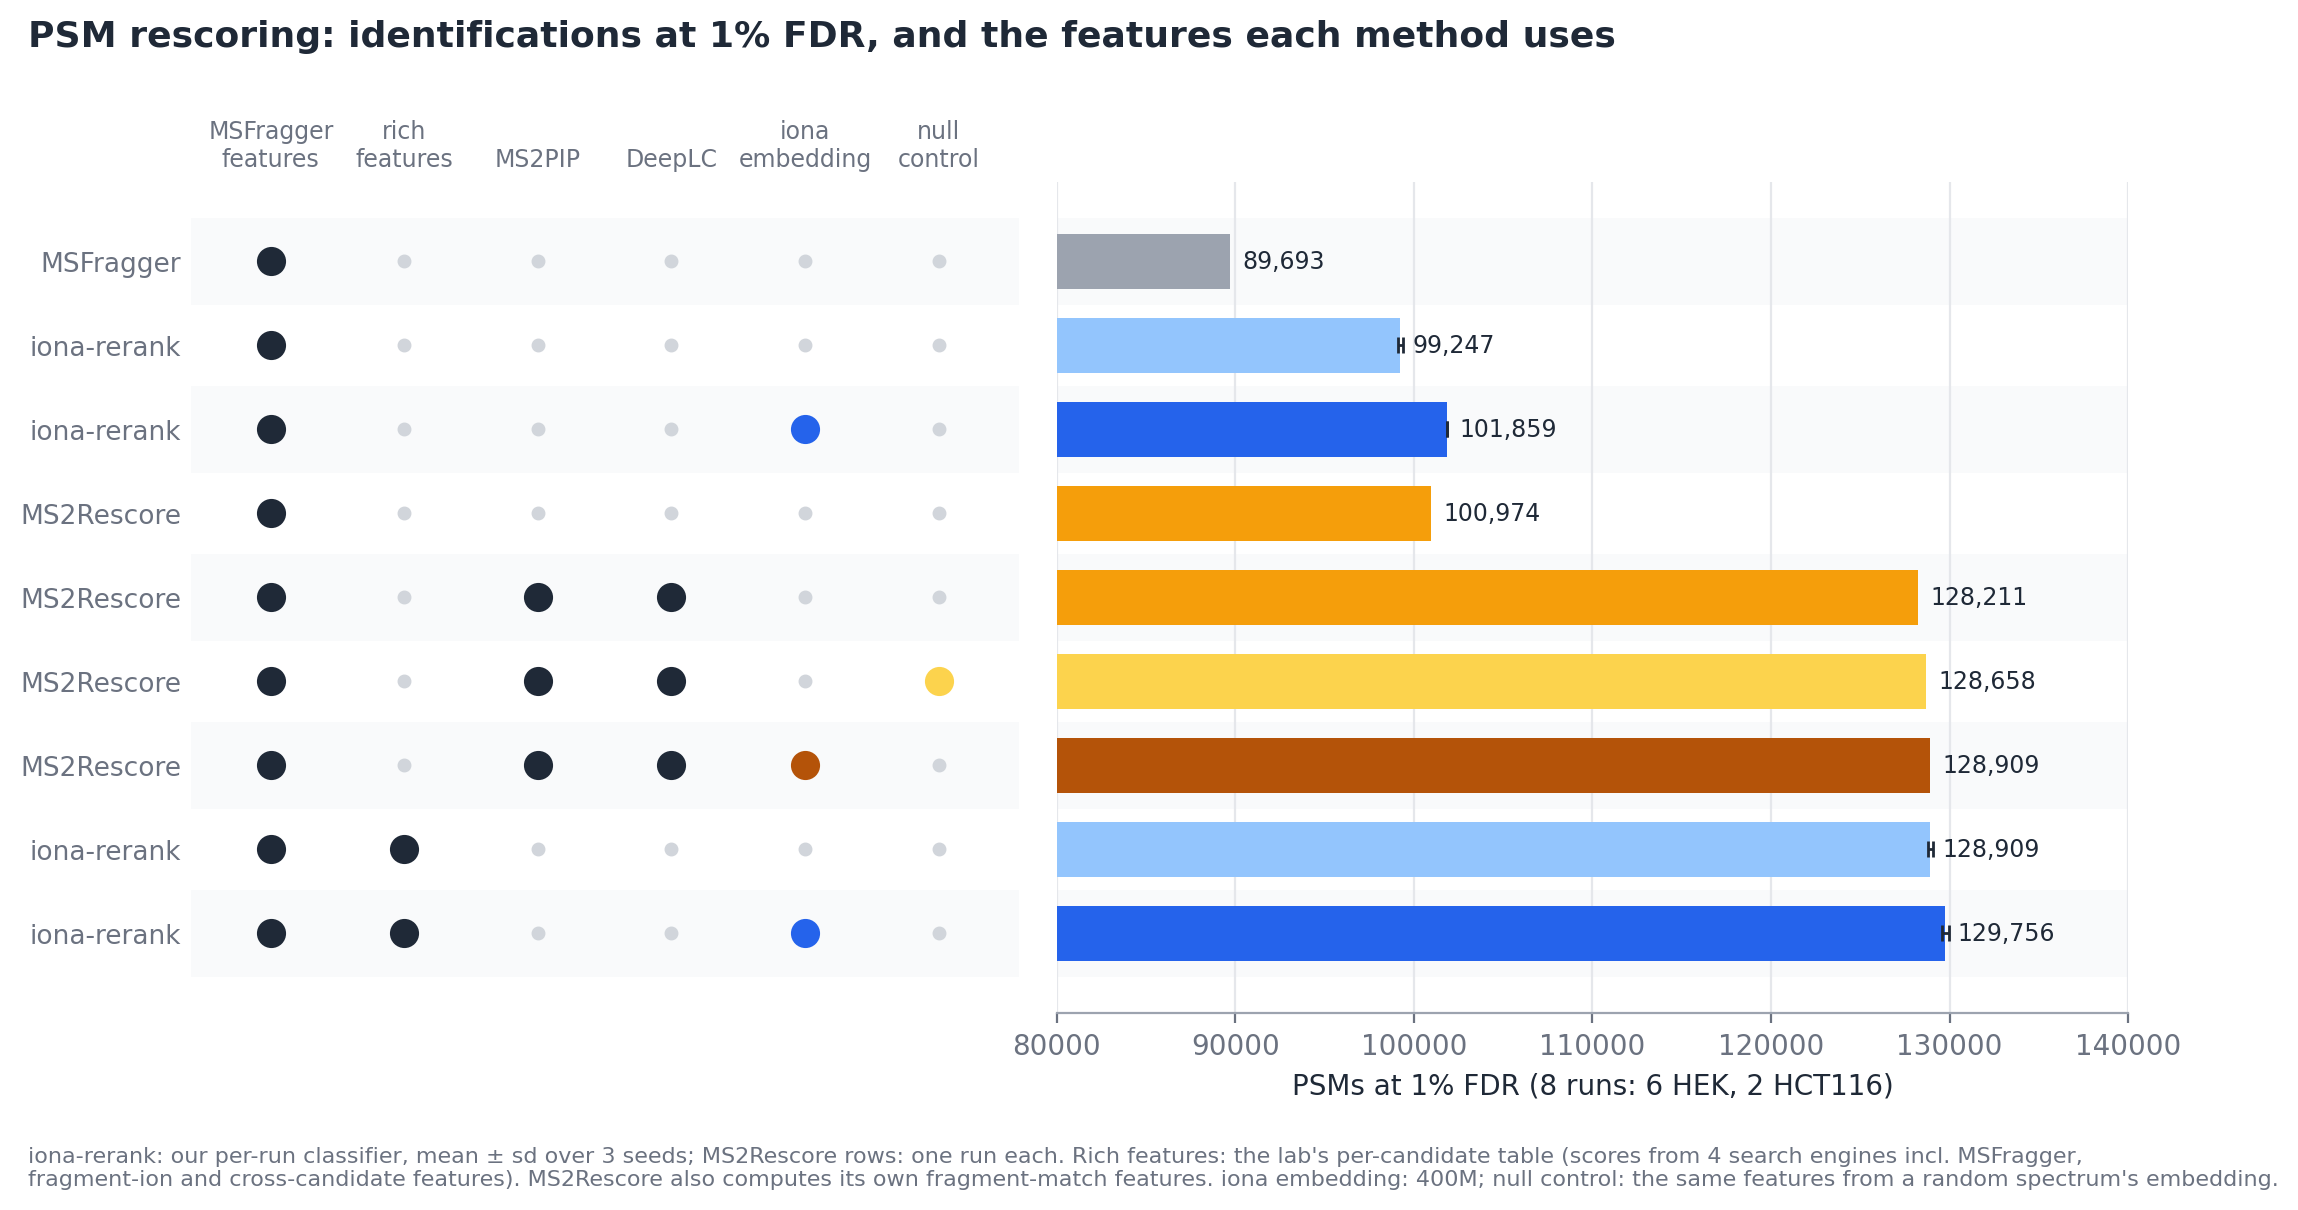
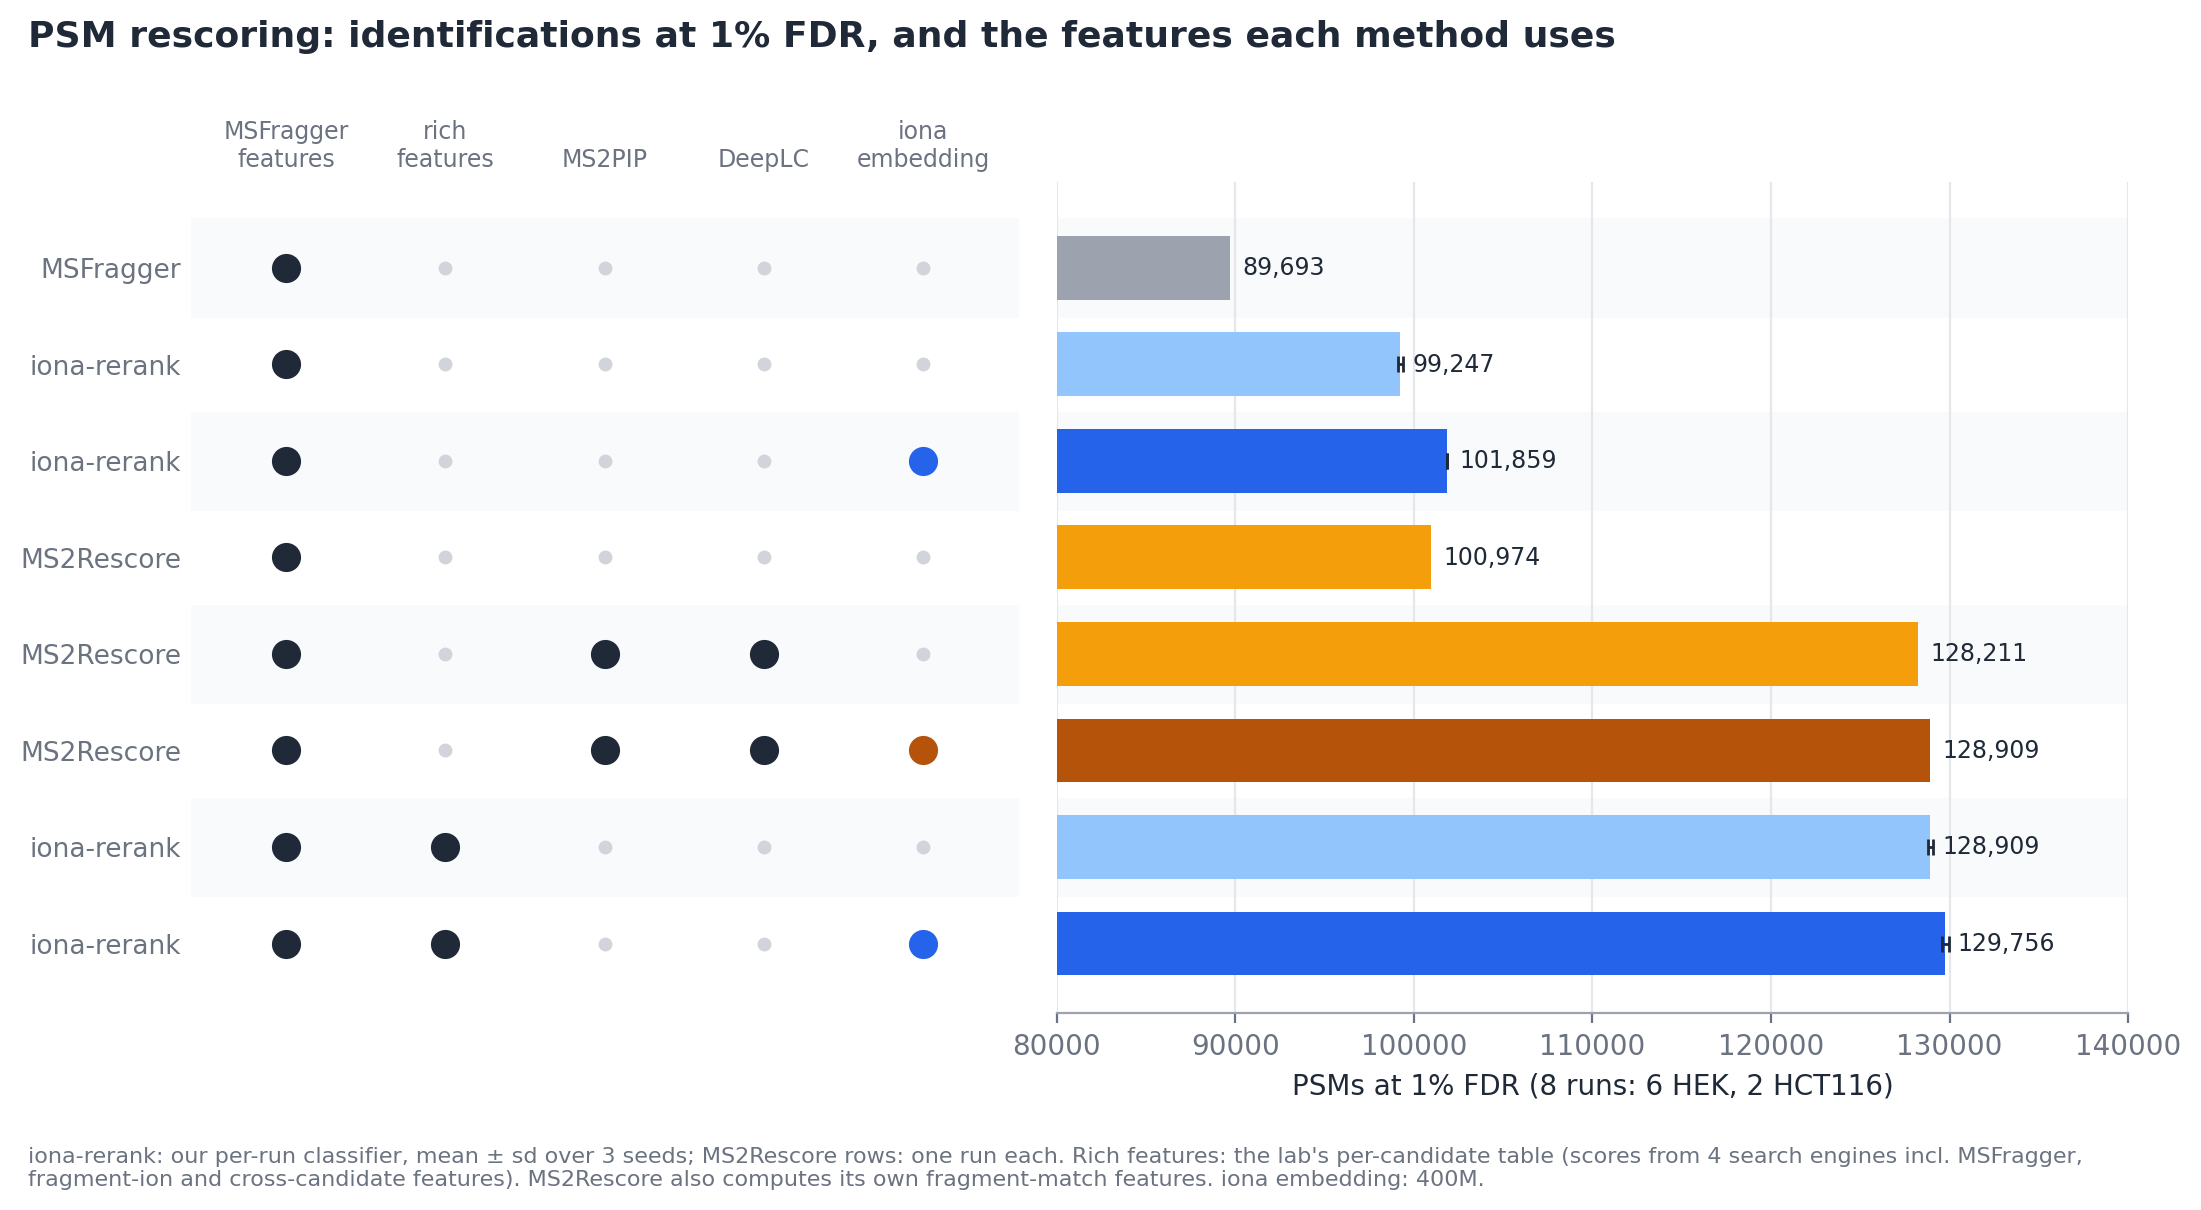
R_benchmark: drop the MS2Rescore + null control row and the null column
Claude-Session: https://claude.ai/code/session_01ATgkXx1oRRqvzB3G8wYeta

diff --git a/paper/experiments/reranking/plot_reranking.py b/paper/experiments/reranking/plot_reranking.py
@@ -61,7 +61,7 @@ def embedding_gain():
 
 
 FEATURE_COLS = [("MSFragger\nfeatures", "msf"), ("rich\nfeatures", "rich"), ("MS2PIP", "ms2pip"),
-                ("DeepLC", "deeplc"), ("iona\nembedding", "iona"), ("null\ncontrol", "null")]
+                ("DeepLC", "deeplc"), ("iona\nembedding", "iona")]
 
 
 def features_of(method):
@@ -122,7 +122,7 @@ def benchmark(csv_path=None, out_path=None):
         fig.text(0.06, -0.05, "iona-rerank: our per-run classifier, mean ± sd over 3 seeds; MS2Rescore rows: one run each. "
                  "Rich features: the lab's per-candidate table (scores from 4 search engines incl. MSFragger,\n"
                  "fragment-ion and cross-candidate features). MS2Rescore also computes its own fragment-match features. "
-                 "iona embedding: 400M; null control: the same features from a random spectrum's embedding.",
+                 "iona embedding: 400M.",
                  fontsize=8, color=MUTED)
         fig.savefig(out_path or HERE / "R_benchmark.png"); plt.close(fig)
 

diff --git a/sweeps/package_rerank.py b/sweeps/package_rerank.py
@@ -123,8 +123,7 @@ def benchmark_rows():
                    ("ms2rescore:full", "MS2Rescore, MSFragger features + MS2PIP + DeepLC")):
         rows.append(dict(method=lab, seed="", psms=ms2r[k]["all"]["pooled"], source=f"results_ms2rescore.json:{k}"))
     emb = json.loads((REPO / "baselines_wip" / "results_ms2rescore_emb8_a2.json").read_text())
-    for k, lab in (("ms2rescore:full+null control", "MS2Rescore, MSFragger features + MS2PIP + DeepLC + null control"),
-                   ("ms2rescore:full+embedding(400M teacher, cosws)", "MS2Rescore, MSFragger features + MS2PIP + DeepLC + iona embedding")):
+    for k, lab in (("ms2rescore:full+embedding(400M teacher, cosws)", "MS2Rescore, MSFragger features + MS2PIP + DeepLC + iona embedding"),):
         rows.append(dict(method=lab, seed="", psms=emb[k]["all"]["pooled"], source=f"results_ms2rescore_emb8_a2.json:{k}"))
     for seed, src in enumerate(EMB["A2"][1]):
         p = perrun(src)

diff --git a/paper/experiments/reranking/README.md b/paper/experiments/reranking/README.md
@@ -83,8 +83,9 @@ features.
 - MS2Rescore full with the embedding features added (one run): 128,909 PSMs, against 128,658 with the
   null control, a net +251 (+0.2%). On the 6 HEK runs the gain is clean (+257 vs +6 for the null); on
   the 2 HCT116 runs the null gained more than the embedding (+452 vs +343), i.e. within MS2Rescore's
-  sensitivity to added features on those small runs. Both rows are shown in `R_benchmark.png`; the
-  18-run HCT116 MS2Rescore comparison is pending. (MS2Rescore + MS2PIP + DeepLC + iona embedding and iona-rerank
+  sensitivity to added features on those small runs. `R_benchmark.png` shows the embedding row;
+  the null-control row is omitted there (it is noise-dominated, see above). The 18-run HCT116 MS2Rescore
+  comparison is pending. (MS2Rescore + MS2PIP + DeepLC + iona embedding and iona-rerank
   with rich features both read 128,909: the first is one run, the second the mean of 129,041 / 128,751 / 128,934.)
 
 Provenance: msdelta repository, `sweeps/package_rerank.py` (from `results/rerank/psm/` and
